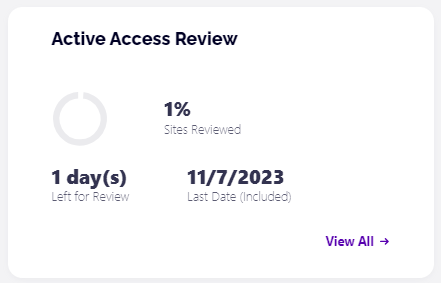
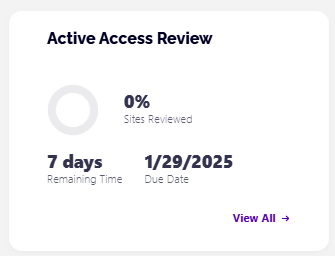
IW dash tile

diff --git a/microsoft365-inventory/explore-your-microsoft-365-dashboard.md b/microsoft365-inventory/explore-your-microsoft-365-dashboard.md
@@ -22,7 +22,7 @@ The **Syskit Point** Dashboard shows Syskit Point administrators the following i
 * Copilot Readiness
 * External Collaboration
 * Active Access Review
-* Lifecycle Management
+* Inactive Workspaces 
 * Microsoft 365 Licenses
 * Power Platform
 
@@ -190,41 +190,46 @@ Clicking the **Anonymous Links** number opens the **Sharing Links** report in th
 
 The last information on this tile is the number of **Sites With Anonymous Sharing**. The drill opens the **Anonymous Sharing view** on the Sites Overview screen. Here, only workspaces with the external sharing settings set to **'Anyone'** are displayed.
 
-## Access Review & Lifecycle Management
+## Access Review
 
-The **Access** and **Lifecycle Management** tiles show the progress of current automated tasks.
+The **Access Review** tile shows the progress of current automated tasks.
 
-If the Access Review and Lifecycle Management automation is not configured, the tiles will help you navigate to the settings screen by clicking the **Configure Now** button.
+If the Access Review automation is not configured, the tiles will help you navigate to the settings screen by clicking the **Configure Now** button.
 
-{% hint style="info" %}
-**Learn more!**  
-Use the following articles to learn how to enable and configure automation in Syskit Point:
-
-* [Enable Automated Access Review](../governance-and-automation/permissions-review/enable-permissions-review.md)
-* [Enable Lifecycle Management Automation](../governance-and-automation/lifecycle-management/enable-lifecycle-management.md)
-{% endhint %}
+* For more details, take a look at the [Enable Automated Access Review article](../governance-and-automation/permissions-review/enable-permissions-review.md)!
 
 When the Access Review is configured, the tile shows information about the upcoming Review, previous Review, or the current active Review, depending on the Access Review's current state.
 
-Below, you can see the information for the active Access Review. The **View All** link guides you to the **Governance screen**, where additional information is provided about the active Access Review.
+Below, you can see the information for the active Access Review. The **View All** link guides you to the **Governance screen**, where additional information about the active Access Review is provided.
 
 ![Access Review tile with active Access Review information ](../.gitbook/assets/dashboard-access-review-tile.png)
 
-When the **Lifecycle Management feature** is configured, the tile gives information on whether it is in an active state or just turned on but inactive.
 
-If inactive, the numbers in the tile will be zero.
 
-In the picture below, you can see the tile when Lifecycle Management is in the active state.
+## Inactive Workspaces
 
-![Lifecycle Management tile in active state ](../.gitbook/assets/dashboard-lifecycle-management-tile.png)
+The **Inactive Workspaces** tile shows the progress of current automated tasks.
 
-**View All** link opens the **Governance screen for Lifecycle Management Overview** with additional information.
+The **Inactive Workspaces** policy is turned on by default, so the Inactive Workspaces tile shows data based on the default configuration. 
 
-The **chart shows information about performed actions in the last 30 days**.
+You can change the Settings for your Inactive Workspaces policy to suit your needs better or create new ones. Learn how in the [Enable Inactive Workspaces policy](../governance-and-automation/automated-workflows/inactive-workspaces-admin.md) article.
 
-Every number is drillable and opens the dedicated screen in the Governance section.
+The **Inactive Workspaces** tile shows the progress of your current Inactive Workspaces tasks.
 
-**Workspaces that require attention are highlighted with red color** and displayed on the bottom of the tile. Clicking the link opens the **Awaiting Response** screen, where you can decide how to resolve tasks for these workspaces.
+The following information can be found on the tile:
+
+* **Number of Inactive Workspaces** - shows the number of Inactive Workspaces that were detected based on the policy settings
+  * Clicking this opens the Inactive Workspaces screen in the Security and Compliance section
+* **Workspaces that Require Your Attention** - the number of Inactive Workspaces that need to be reviewed
+* **Task completion** - provides an overview of your task completion status and shows the number of:
+  * **Kept** workspaces
+  * **Archived** workspaces
+  * **Deleted** workspaces
+
+The **View All** link opens the **Governance** section, showing the **Vulnerabilities History Details** screen with additional information.
+
+![Inactive Workspaces tile](../.gitbook/assets/dashboard-inactive-workspaces-tile.png)
+
 
 ## Microsoft 365 Licenses
 
